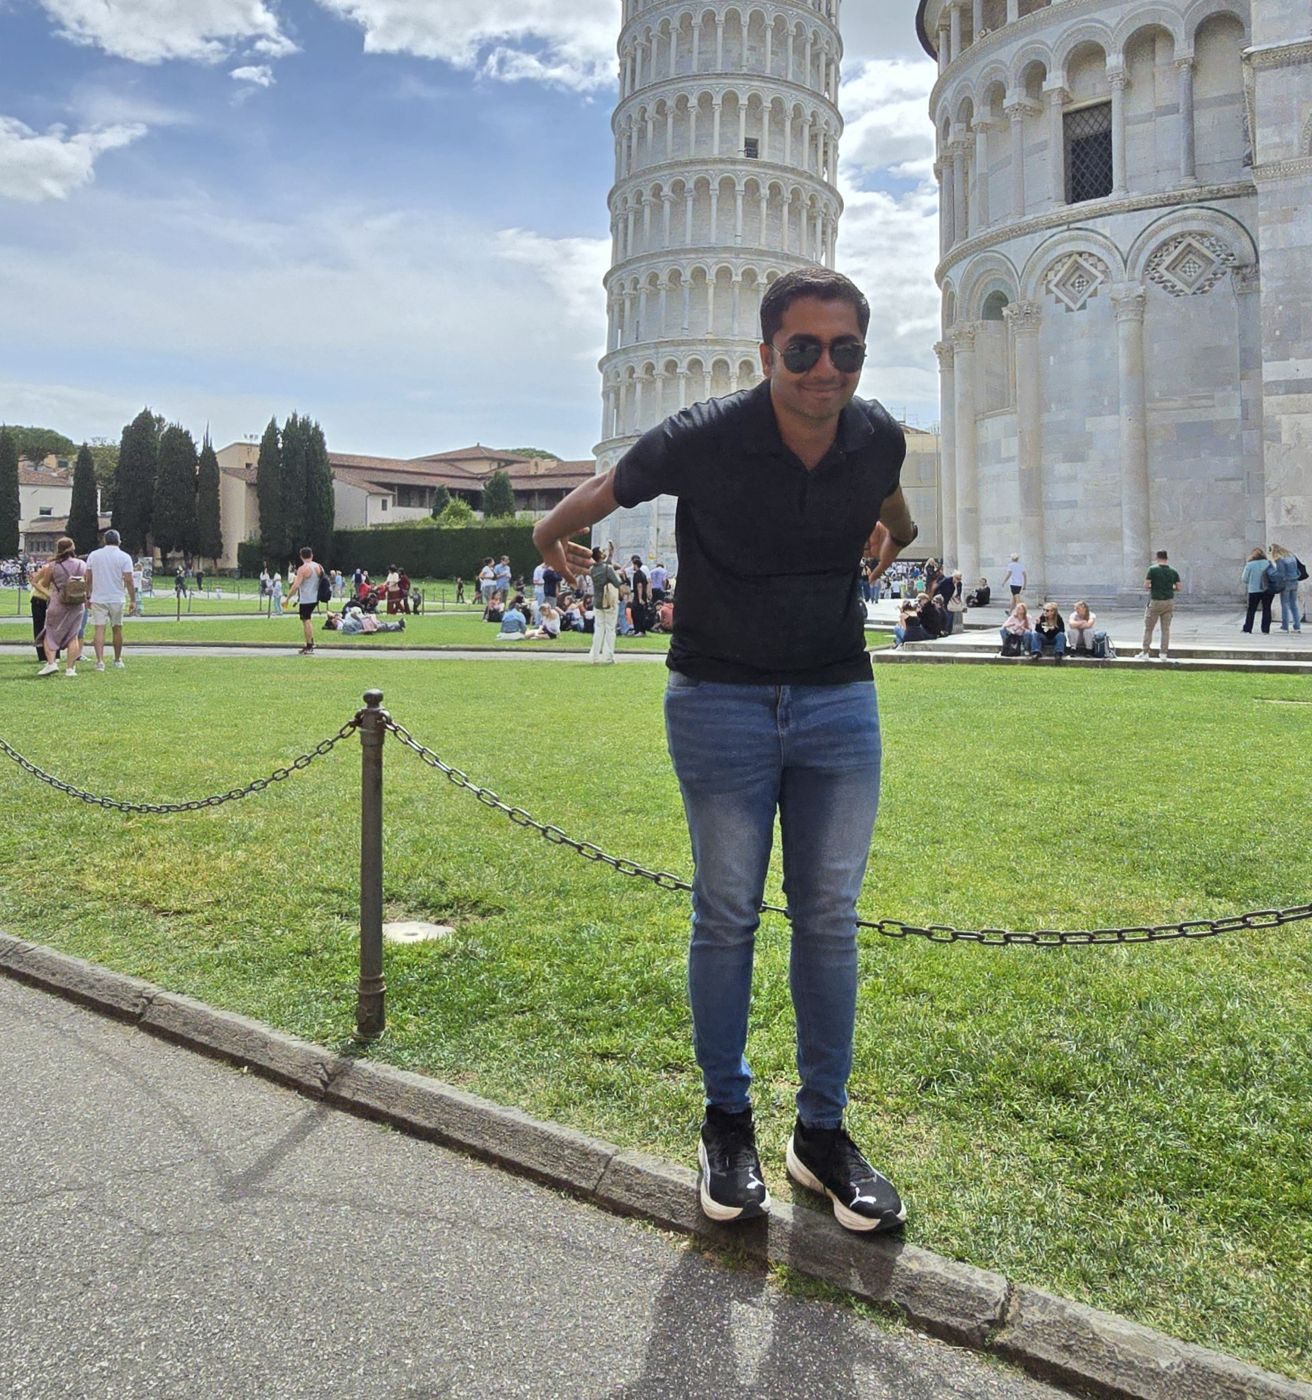
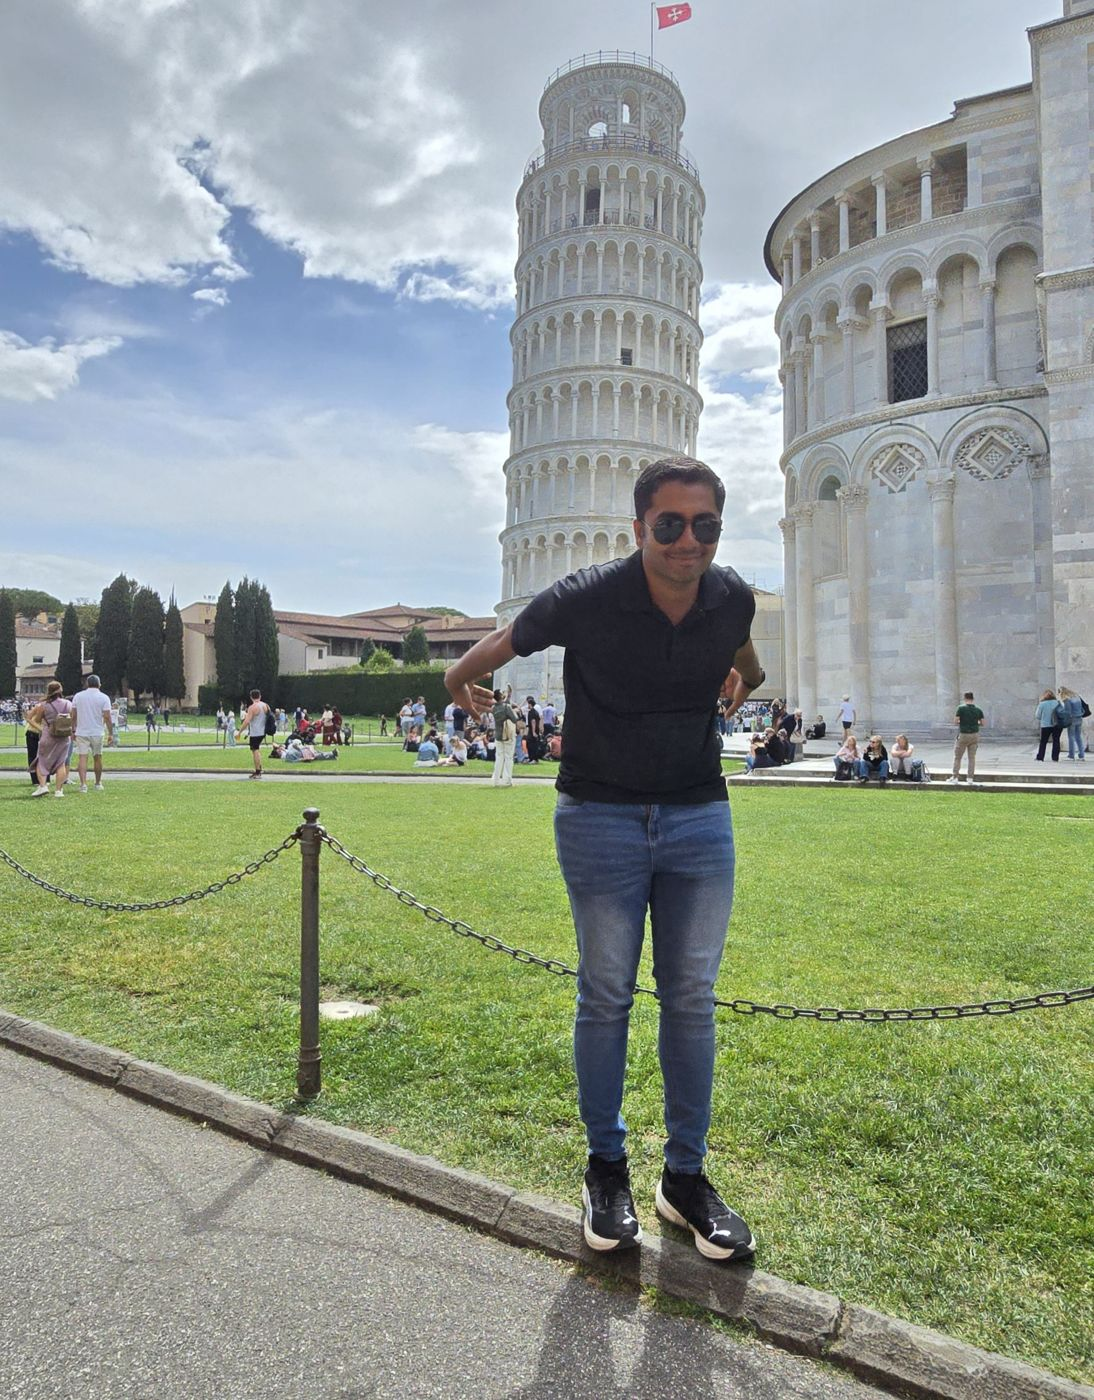
Hero: keep full Pisa photo and move text to the bottom on phones; update CLAUDE.md
Claude-Session: https://claude.ai/code/session_01W6sFwNukTNQ9zyostxjBYk

diff --git a/assets/css/main.scss b/assets/css/main.scss
@@ -91,6 +91,11 @@ th, td { text-align: left; padding: .5rem .6rem; border-bottom: 1px solid var(--
 @media (max-width: 600px) { .hero-slides .slide { background-image: var(--img-m, var(--img)); background-position: var(--pos-m, var(--pos, center)); } }
 .hero-slides .slide.is-active { opacity: 1; }
 .hero-slides::after { content: ""; position: absolute; inset: 0; background: radial-gradient(ellipse at center, rgba(5, 13, 24, .38) 0%, rgba(5, 13, 24, .12) 60%, rgba(5, 13, 24, 0) 100%); }
+@media (max-width: 600px) {
+  /* On phones the photo is tall, so move the text to the bottom and keep faces clear */
+  .hero-slides { align-items: flex-end; padding-bottom: 9vh; }
+  .hero-slides::after { background: linear-gradient(to top, rgba(5, 13, 24, .65) 0%, rgba(5, 13, 24, .25) 40%, rgba(5, 13, 24, 0) 65%); }
+}
 .hero-text { position: relative; z-index: 1; padding: 0 16px; text-shadow: 0 2px 14px rgba(0, 0, 0, .45); }
 .hero-text h1 { font: 700 clamp(2.4rem, 7vw, 4rem) "Poppins", var(--serif); color: #fff; margin: 0 0 .3rem; }
 .hero-text p { font-size: clamp(1.1rem, 3vw, 1.6rem); margin: 0; }

diff --git a/CLAUDE.md b/CLAUDE.md
@@ -2,7 +2,15 @@
 
 This file provides guidance to Claude Code (claude.ai/code) when working with code in this repository.
 
-Personal site for Ibrahim Sharul (pentester): a Jekyll site built by GitHub Pages from `main`. Pushing to `main` publishes it, so do redesign work on a branch and only merge with the owner's approval.
+Personal site for Ibrahim Sharul (pentester at Vantage Point Security, trainer, volunteer, traveller): a Jekyll site built by GitHub Pages from `main`.
+
+## Workflow rules
+
+- **`main` is the live site.** Work on the `redesign` branch, push there, and merge into `main` only when the owner says so in that conversation. An earlier "merge" does not cover later changes.
+- Push over the existing SSH remote. Never set a credential helper or write `~/.git-credentials`.
+- **Never invent facts** about the owner (dates, names, roles, numbers). Use a clear placeholder and ask. Unfinished posts stay in `_drafts/` (kept hidden on purpose) until the owner fills them.
+- **Photos:** resize (about 1600px for posts, 2000–2600px for hero slides), re-encode with Pillow and drop EXIF so no GPS goes out. The only deliberate exception is the CTF postcard (`assets/img/ctf/postcard.jpg`), whose EXIF carries the challenge flag and fake GPS on purpose. Re-saving it must pass the EXIF through.
+- Owner's design preferences: light theme only, old iPortfolio colours (accent `#149ddd`, headings `#173b6c`), top nav on desktop with the dark drawer only on mobile, and round cert badges. They rejected the bento layout. Never tease the CTF on the visible site; it's a surprise.
 
 ## Build and preview
 
@@ -13,34 +21,72 @@ The `github-pages` gem pins Jekyll 3.10 and the allowed plugins. Native gem inst
 docker run --rm -v "$PWD":/srv -v jekyll-gems:/usr/local/bundle -w /srv -e JEKYLL_ENV=production \
   ruby:3.3-bookworm bash -c "bundle install && bundle exec jekyll build"
 
-# Live preview with drafts at http://localhost:4000
-docker run --rm -it -p 4000:4000 -v "$PWD":/srv -v jekyll-gems:/usr/local/bundle -w /srv \
-  ruby:3.3-bookworm bash -c "bundle install && bundle exec jekyll serve --host 0.0.0.0 --drafts"
+# Live preview at http://localhost:4000 (container name used below)
+docker run --rm --name site-preview -p 127.0.0.1:4000:4000 -v "$PWD":/srv -v jekyll-gems:/usr/local/bundle -w /srv \
+  ruby:3.3-bookworm bash -c "bundle exec jekyll serve --host 0.0.0.0 --force_polling"
 ```
 
-`_site/` is then owned by root; remove it via Docker or sudo. There is no test suite or linter. Check changes by building and clicking through the built site (`python3 -m http.server` in `_site/` also works). The CTF flag checker uses `crypto.subtle`, which only runs on https or localhost.
+- Preview without `--drafts` so the owner sees what will publish. Add it only when checking drafts.
+- Edits to `_config.yml` are not picked up live; run `docker restart site-preview`.
+- `_site/` is owned by root; remove it via Docker or sudo.
+- There is no test suite. Check with Playwright (`python3`) against localhost:
+  - at 375px wide, `document.documentElement.scrollWidth` must stay 375
+  - there must be no console errors
+  - every CTF flag must be accepted and a wrong one rejected
+- The CTF checker uses `crypto.subtle`, which only runs on https or localhost.
 
 ## Architecture
 
-- **Content is data-driven.** Certs, experience, papers and red/blue work live in `_data/*.yml` and are rendered by includes (`work-card`, `timeline-item`). Add a cert or job by editing YAML, not HTML.
-- **Posts** use `category:` = `certs | resources | labs | travel`. Labels, blurbs and filter-chip order come from `post_categories` in `_config.yml`. Permalinks are `/:categories/:title/`. `blog/index.html` filters client-side via `assets/js/filter.js` (supports `?c=<category>`).
-- **Cert reviews** (`layout: cert-review`) set `cert:` to an `id` in `_data/certs.yml`, which links the verification badge and adds a "My review" link on the Work page. Front matter fields (`cost`, `prep_time`, `difficulty`, `exam_format`, `would_recommend`, `resources:`) fill the fact box and the "Resources I used" list.
-- **Drafts** in `_drafts/` are never published; most starter posts sit there with `TODO`s for the owner to write. `POSTING.md` is the owner-facing how-to; keep it in sync with layout or front-matter changes.
-- **Styling** is one hand-written `assets/css/main.scss` built on CSS variables, light theme only (no dark mode). There is no framework or vendor CSS.
-- **Untouched legacy files** (`numerology*.html`, `Reports/`, `Projects/`, `Files/`) have no front matter and are copied through as-is. Old URLs (`about-me.html`, `portfolio.html`) are kept alive with `redirect_from`.
+- **Content is data-driven.** These live in `_data/*.yml`, rendered by includes (`cert-grid`, `work-card`, `timeline-item`). Add a cert or job by editing YAML, not HTML.
+  - certs
+  - experience
+  - papers
+  - red/blue work
+  - home hero slides (`hero_slides.yml`)
+  - About travel photos (`travel_photos.yml`)
+- **Posts** use `category:` = `certs | resources | labs | travel | talks`.
+  - Labels and filter-chip order come from `post_categories` in `_config.yml`. Permalinks are `/:categories/:title/`.
+  - `assets/js/filter.js` drives the chips on `/blog/` (supports `?c=<category>`) and on the home page's "Latest writing".
+  - A chip's `data-filter` matches a card's category or its group. `post-card.html` puts `travel` in the travel group and every other category in the cyber group.
+  - On the home page the grid has `data-limit="6"`.
+  - `/travel/` redirects to `/blog/?c=travel`.
+- **Travel posts** were imported from the owner's old WordPress blog. Images are in `assets/img/travel/<slug>/`. Set `show_cover: false` when the cover repeats in the body. Nothing links to the old blog.
+- **Post images:** galleries in posts use `<figure class="gallery">` with nested `<figure>`s. Add `gallery-tall` for portrait photos. Videos use `<video controls playsinline preload="metadata" poster=…>`.
+- **Home hero.** `assets/js/hero.js` types the roles in the `.typed` element's `data-items` and crossfades to the slide whose `role` matches.
+  - A role with no slide falls back to the first slide (Penetration Tester shares the consultant photo).
+  - Per-slide fields:
+    - `pos`: background-position
+    - `src_mobile` / `pos_mobile`: phone overrides at ≤600px, for example a tall photo for Traveller
+  - On phones the hero text sits at the bottom so faces stay clear. Check a new slide at 375×667 and 390×844.
+- **Cert reviews** (`layout: cert-review`) set `cert:` to an `id` in `_data/certs.yml`. The Home and Work cert grids show a "My review" link only when a published review exists.
+- **Styling** is one hand-written `assets/css/main.scss` built on CSS variables, with no framework. Avoid `backdrop-filter` on the sticky header, because it traps the fixed mobile drawer.
+- `POSTING.md` is the owner-facing how-to; keep it in sync with layout or front-matter changes.
+- **Legacy files** (`numerology*.html`, `Reports/`, `Projects/`, `Files/`) have no front matter and are copied through as-is. `Files/Ibrahim Sharul Resume.pdf` is linked from Home, About and Work. Old URLs (`about-me.html`, `portfolio.html`, `travel-post.html`) are kept alive with `redirect_from`.
 
-## Hidden CTF ("Launchpad")
+## Hidden CTF portal
 
-- The portal at `/secret-ctf-portal/` is for teaching secondary school students. Every challenge must be solvable in a browser with DevTools, view-source or CyberChef; nothing to install.
-- **Clue chain:** the HTML comment in `index.html` → `robots.txt` (`Disallow`) → portal. Renaming the path means updating all three, plus the `secret-ctf-portal` defaults scope in `_config.yml`, which applies `layout: ctf`, `sitemap: false` and `noindex`.
+- **What it is:** the portal at `/secret-ctf-portal/`, for teaching secondary school students. Every challenge must be solvable in a browser with DevTools, view-source or CyberChef; nothing to install. The pages are still branded "Launchpad".
+- **Clue chain:** the HTML comment in `index.html` → `robots.txt` (`Disallow`) → portal.
+  - Renaming the path means updating the permalinks, `robots.txt`, `_layouts/ctf.html` (`portal`), the hall-pass cookie path and the `secret-ctf-portal` defaults scope in `_config.yml`.
+  - That defaults scope applies `layout: ctf`, `sitemap: false` and `noindex`. Restart the preview after changing it.
+- `teachers.html` is deliberately unlinked: it's reachable only by URL and has no answers.
 - Each challenge page has front matter: `permalink`, `slug_id`, `order`, `track`, `difficulty`, `flag_hash`, `hints`, `learned`, `real_world`. The portal index lists every page with `order`.
-- **Flag checking:** `assets/js/ctf.js` lowercases the trimmed input, SHA-256s it, and compares the result to `flag_hash`. Hashes must therefore come from the lowercased flag. Use `ruby scripts/hash-flag.rb 'CTF{...}'`.
-- **Plaintext flags never go in the repo.** They live outside it in `../ctf-flags.local.txt`. The exception is flags that the challenge deliberately hides in page source.
-- Progress is stored in localStorage under `launchpad-solved`.
-- `ctf.js` finds feedback with `document.querySelector('.flag-result')`. Do not reuse the `flag-result` class for other elements on a challenge page.
+- **Flag format is `CTF{...}`.**
+  - `assets/js/ctf.js` lowercases the trimmed input, SHA-256s it and compares the result to `flag_hash`, so hashes must come from the lowercased flag. Use `ruby scripts/hash-flag.rb 'CTF{...}'`.
+  - Changing a flag also means updating its encoded copies:
+    - the `atob(...)` strings in gatekeeper, hall-pass, save-file and debug-mode
+    - the Base64+ROT13 text in layers
+    - the Caesar text in caesars-postcard (shift 7, so `CTF` → `JAM`) and its hints
+    - the postcard EXIF
+- **Plaintext flags never go in the repo.** They live outside it in `../ctf-flags.local.txt`, which is also the owner's answer key.
+  - The only exceptions are the read-the-source page comment and the postcard EXIF, which are the puzzles.
+  - Before merging to `main`, grep a production build for each real flag.
+- Progress is stored in localStorage under `launchpad-solved`. Feedback goes to `[data-ctf-result]`.
 - See `scripts/README-ctf.md` for adding a challenge.
 
 ## Liquid gotchas (Jekyll 3)
 
 - `where_exp` does not support `or`.
 - `assign x = a == b` does not evaluate a comparison. Use `{% if %}` blocks instead.
+- A `for` loop can't take a filter inline. `assign` the filtered list first.
+- Nested lookups like `site.categories[c[0]]` fail. `assign key = c[0]` first.
